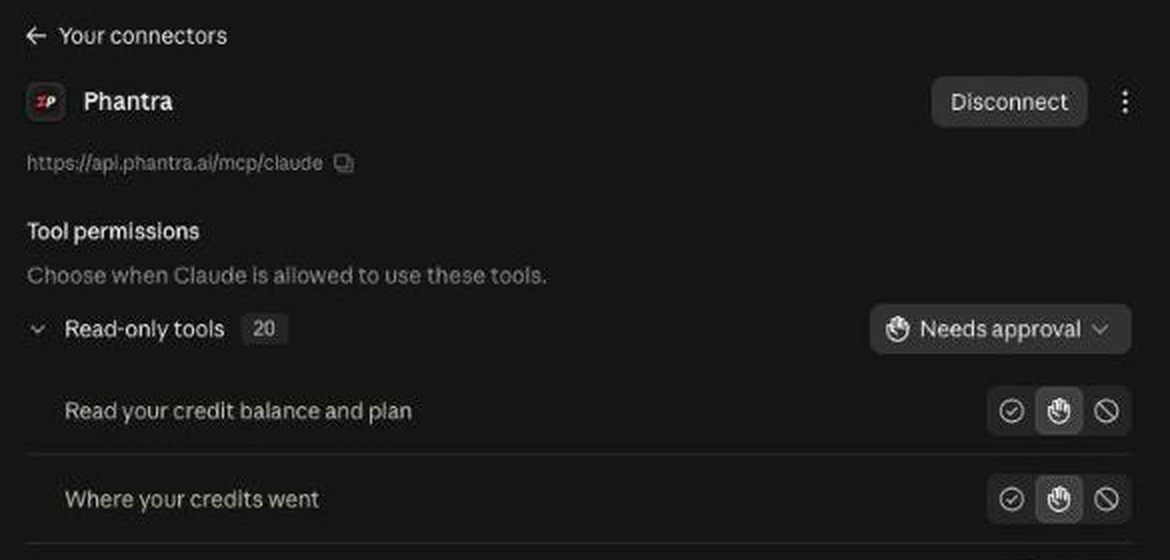
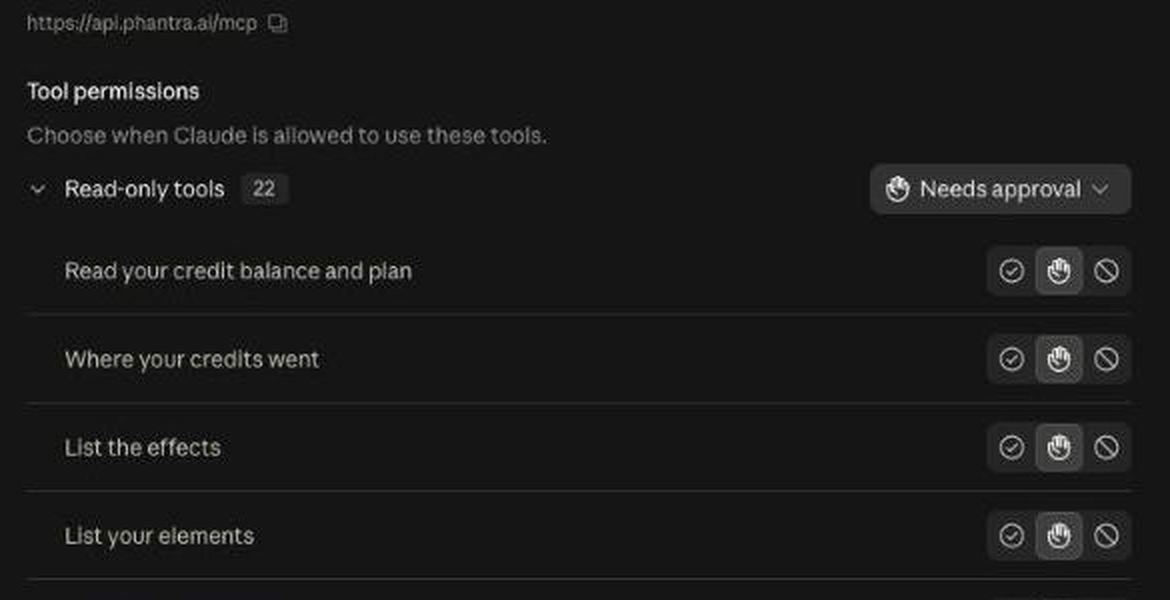
MCP page: Claude screenshots retaken at the single /mcp address

diff --git a/web/src/app/mcp/page.tsx b/web/src/app/mcp/page.tsx
@@ -93,16 +93,16 @@ const TABS: SetupTab[] = [
     shots: [
       {
         src: "/mcp/claude-add.png",
-        alt: "Claude's Add custom connector dialog with the name Phantra and the address api.phantra.ai/mcp/claude filled in",
-        width: 536,
-        height: 449,
+        alt: "Claude's Add custom connector dialog with the name Phantra and the address api.phantra.ai/mcp filled in",
+        width: 834,
+        height: 700,
         caption: "Step 2: the name and the address in Claude's Add custom connector dialog.",
       },
       {
         src: "/mcp/claude-connected.png",
         alt: "The connected Phantra connector in Claude, showing its address and tool permissions",
         width: 1170,
-        height: 560,
+        height: 600,
         caption: "Connected: the connector's page in Claude, where you choose which tools need your approval.",
       },
     ],
